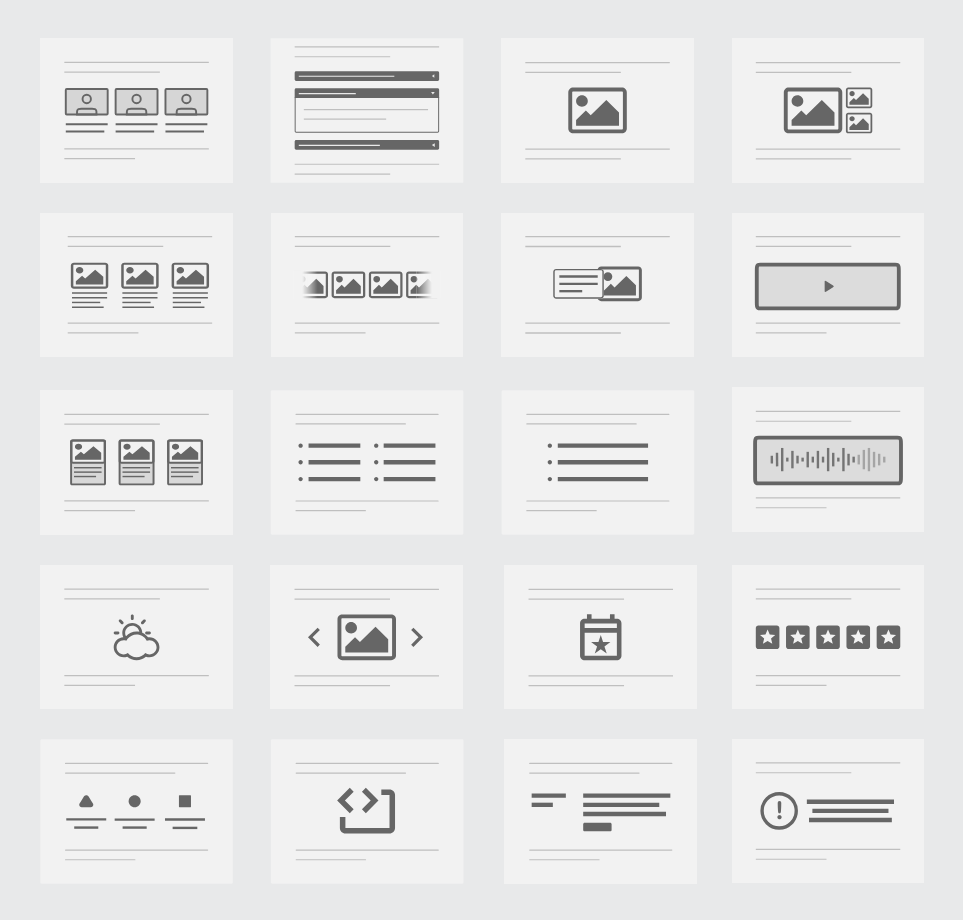
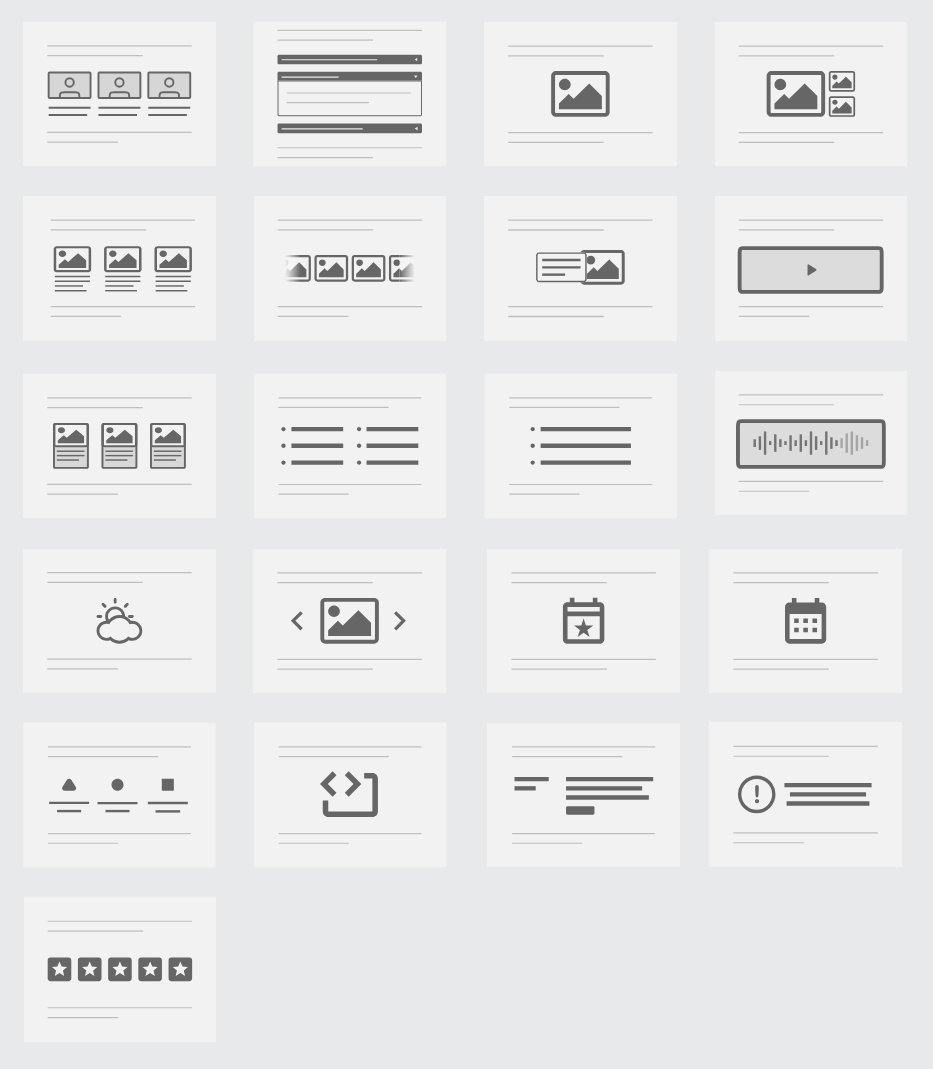
Add Calendar button, update preview, update README

diff --git a/README.md b/README.md
@@ -6,7 +6,31 @@ SVGs created and edited using [PenPot](https://penpot.app/), an open source appl
 
 Thanks to @BernhardBaumrock for his work on the excellent [RockPageBuilder](https://www.baumrock.com/en/processwire/modules/rockpagebuilder/) ProcessWire module and for providing the base images that these extend.
 
-## Icon/Images
+## Included Buttons
+
+- Accordion
+- Announcement
+- Articles
+- Audio
+- Bios
+- Calendar
+- Call To Action
+- Card Over Image
+- Code/Embed
+- Calendar
+- Calendar Events
+- Image
+- Image Carousel
+- Image Mosaic
+- Image Roll
+- List
+- Lists
+- Products
+- Reviews
+- Video
+- Weather
+
+## Icon/Image Sources
 
 Base format and some image components from @BernhardBaumrock
 
